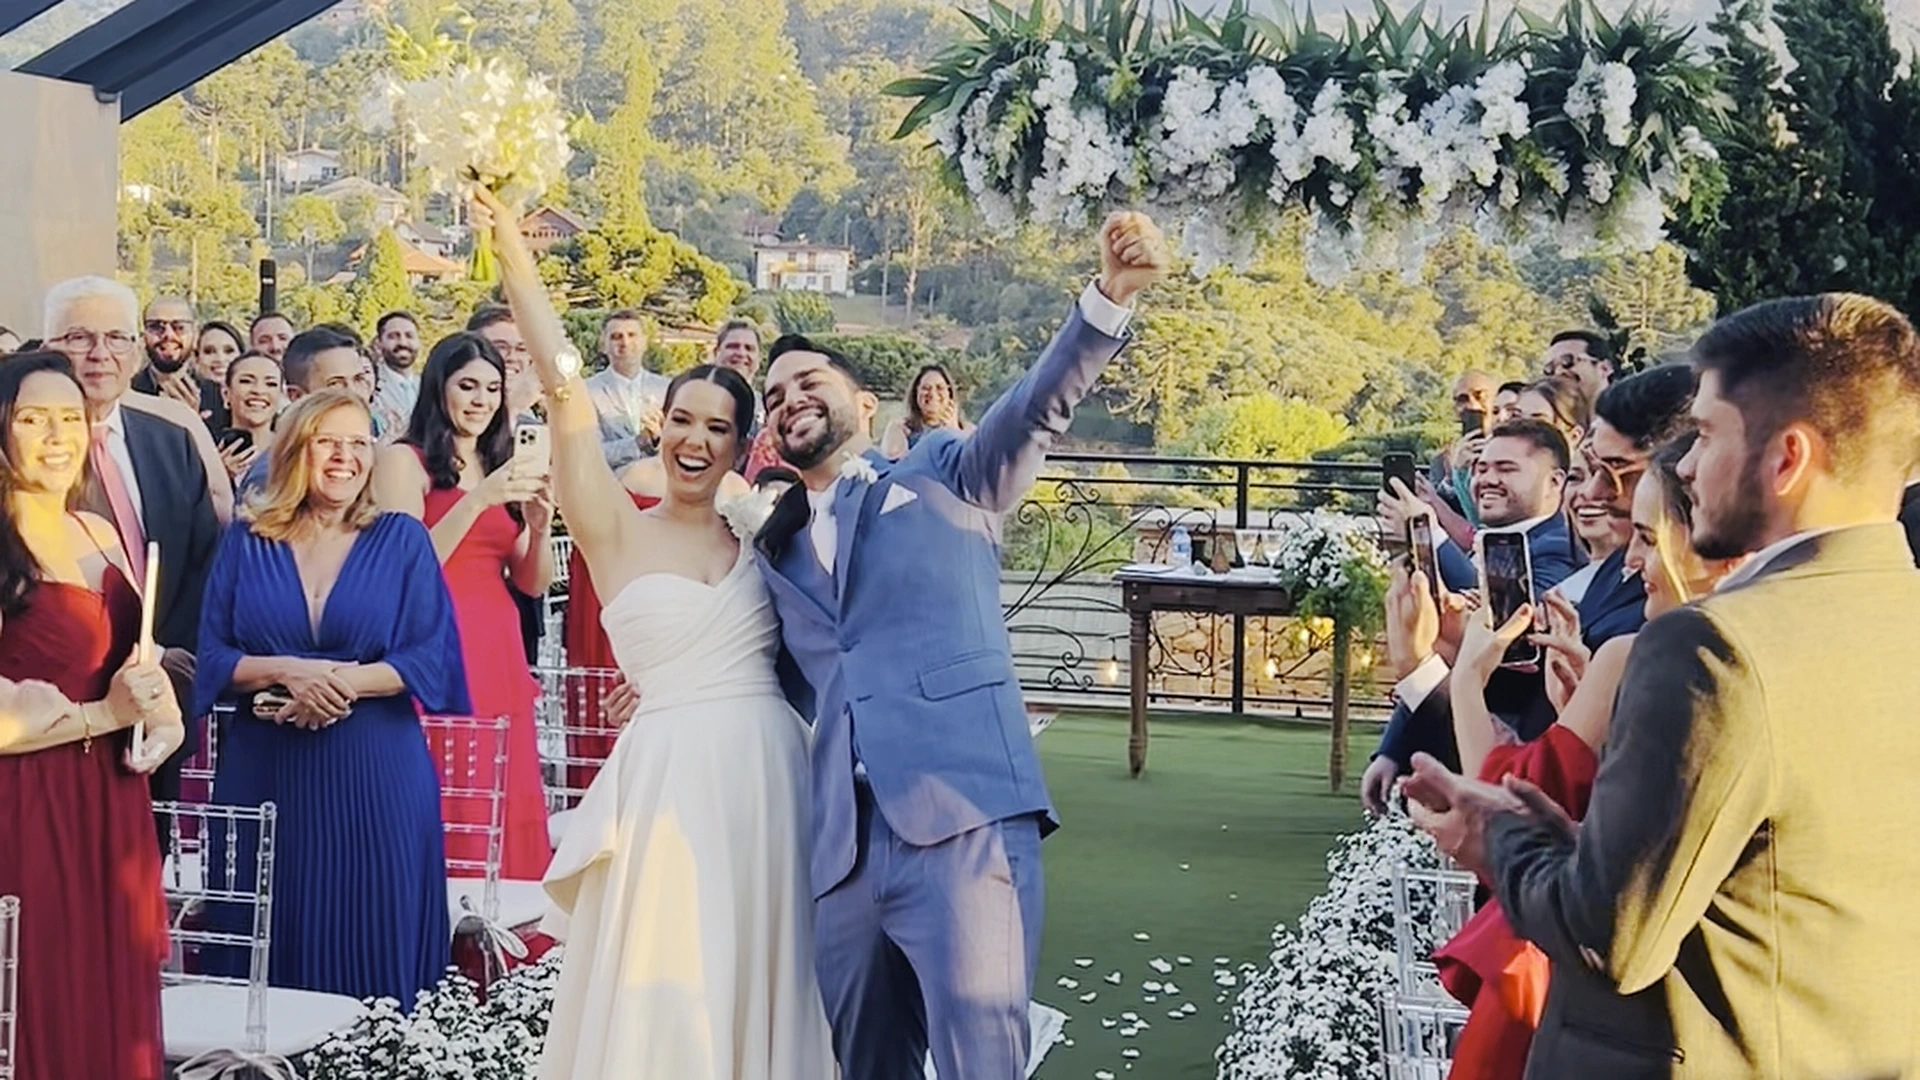
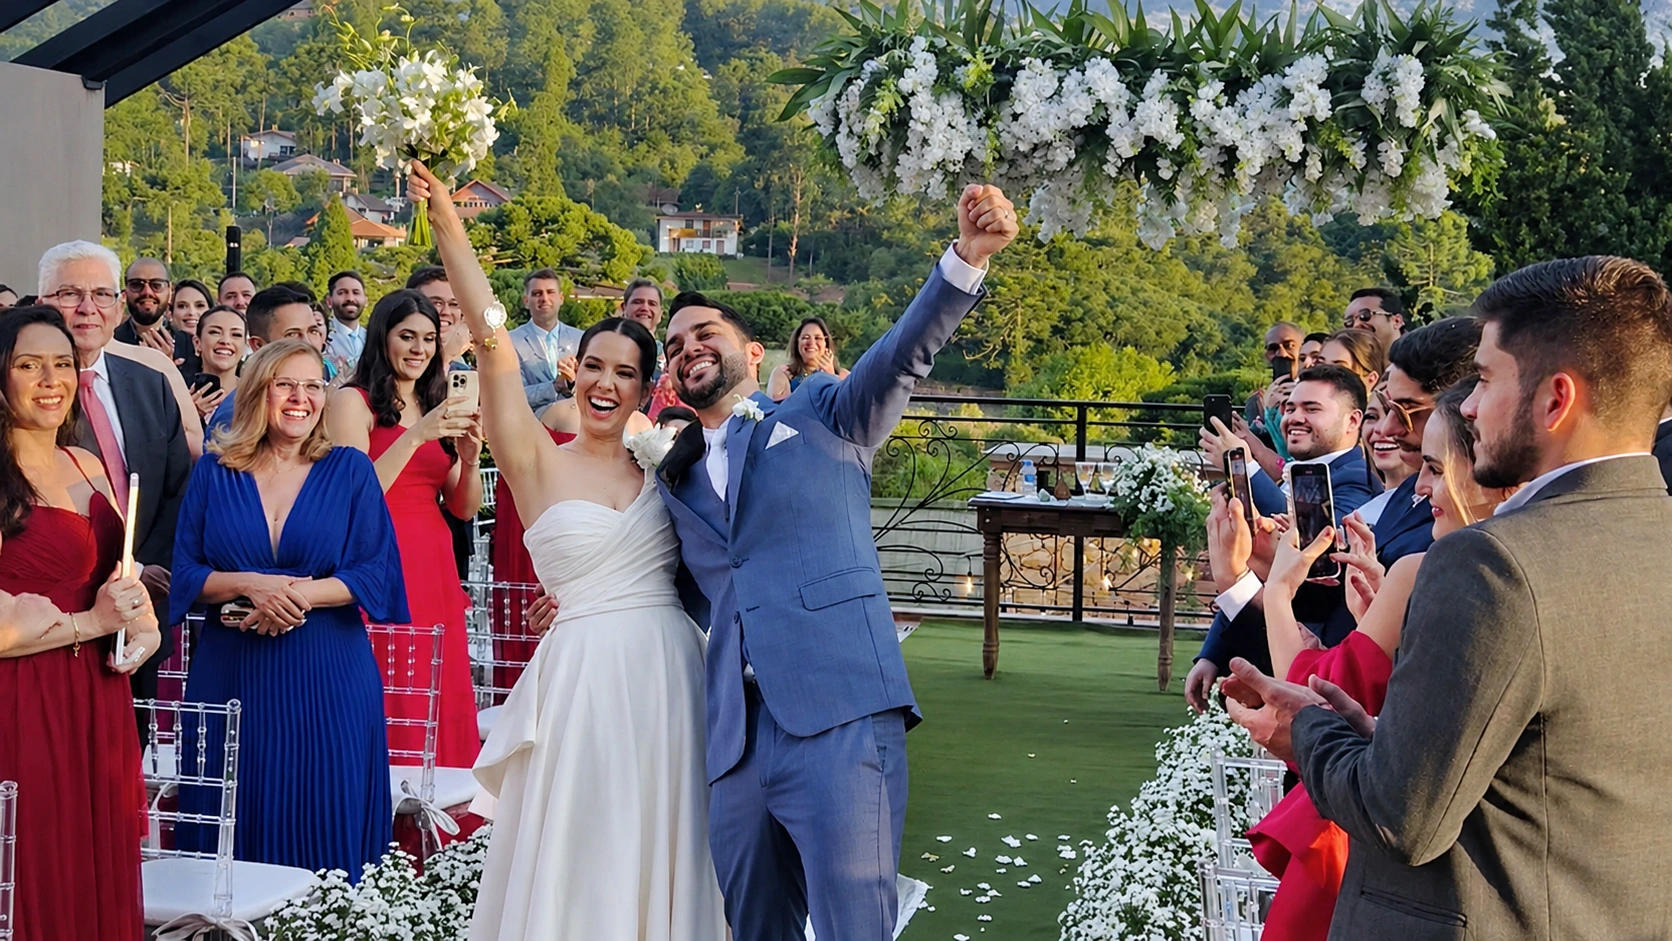
Usa a foto dos noivos enviada para a LP

diff --git a/sites/pousada-villa-monte-verde/index.html b/sites/pousada-villa-monte-verde/index.html
@@ -1766,7 +1766,7 @@ footer span {
           </a>
         </div>
       </section>
-<section class="moments-section"><div class="moments-heading" data-reveal="up"><h2>Cada momento merece ser lembrado.</h2></div><div class="moments-grid two-wedding-videos"><figure class="moment moment-tall" data-reveal="up"><img alt="" decoding="async" data-nimg="fill" style="position:absolute;height:100%;width:100%;left:0;top:0;right:0;bottom:0;color:transparent" src="./assets/foto-1dfc2f531d495d70b7cf.jpg"/><video class="wedding-video" controls muted playsinline preload="metadata" aria-label="Vídeo de casamento na Pousada Villa Monte Verde"><source src="./videos/top-video.mp4" type="video/mp4"></video><figcaption>A emoção do grande dia</figcaption></figure><figure class="moment moment-tall moment-celebration" data-reveal="up"><img loading="lazy" alt="Noivos celebrando com convidados após a cerimônia" decoding="async" data-nimg="fill" style="position:absolute;height:100%;width:100%;left:0;top:0;right:0;bottom:0;color:transparent" src="./assets/foto-9d1f93ee20c90157520c.webp"/><video class="wedding-video" controls muted playsinline preload="metadata" poster="./assets/foto-9d1f93ee20c90157520c.webp" aria-label="Vídeo da celebração de casamento"><source src="./videos/06116.mp4" type="video/mp4"></video></figure><figure class="moment" data-reveal="up"><img loading="lazy" alt="Cerimônia de casamento cercada por convidados" decoding="async" data-nimg="fill" style="position:absolute;height:100%;width:100%;left:0;top:0;right:0;bottom:0;color:transparent" src="./assets/foto-8557b7089f9576f1f271.webp"/><figcaption>Uma celebração entre as montanhas</figcaption></figure><figure class="moment" data-reveal="up"><img loading="lazy" alt="Recepção de casamento com convidados sob luzes douradas" decoding="async" data-nimg="fill" style="position:absolute;height:100%;width:100%;left:0;top:0;right:0;bottom:0;color:transparent" src="./assets/festa-luzes-douradas.png"/><figcaption>A alegria de celebrar juntos</figcaption></figure></div><div class="section-action" data-reveal="up"><button class="cta-button cta-button--wood" type="button" data-chat-trigger="true" data-chat-source="momentos">Falar sobre meu casamento<svg xmlns="http://www.w3.org/2000/svg" width="17" height="17" viewBox="0 0 24 24" fill="none" stroke="currentColor" stroke-width="2" stroke-linecap="round" stroke-linejoin="round" class="lucide lucide-arrow-up-right" aria-hidden="true"><path d="M7 7h10v10"></path><path d="M7 17 17 7"></path></svg></button></div></section><section class="proof-section"><div class="proof-meta" data-reveal="up"><p>CASAMENTOS NA VILLA</p><span>Até <strong>100 pessoas</strong> na celebração</span><span>Hospedagem para até <strong>34 hóspedes</strong></span></div><blockquote data-reveal="up">“Alguns dias merecem ser vividos com calma, cercados de amor e das pessoas que tornam a nossa história especial.”<cite>— Pousada Villa Monte Verde</cite></blockquote></section><section class="location-section" id="localizacao"><div class="location-copy"><h2 data-reveal="up">Um momento de vocês. Uma alegria de todos.</h2><p data-reveal="up">A Pousada Villa Monte Verde fica a apenas 200 metros do centro de Monte Verde, perto de restaurantes, lojas e passeios para aproveitar antes ou depois da celebração.</p><div class="location-facts" data-reveal="up"><span><svg xmlns="http://www.w3.org/2000/svg" width="20" height="20" viewBox="0 0 24 24" fill="none" stroke="currentColor" stroke-width="2" stroke-linecap="round" stroke-linejoin="round" class="lucide lucide-map-pin" aria-hidden="true"><path d="M20 10c0 4.993-5.539 10.193-7.399 11.799a1 1 0 0 1-1.202 0C9.539 20.193 4 14.993 4 10a8 8 0 0 1 16 0"></path><circle cx="12" cy="10" r="3"></circle></svg>200 metros do centro</span><span><svg xmlns="http://www.w3.org/2000/svg" width="20" height="20" viewBox="0 0 24 24" fill="none" stroke="currentColor" stroke-width="2" stroke-linecap="round" stroke-linejoin="round" class="lucide lucide-mountain" aria-hidden="true"><path d="m8 3 4 8 5-5 5 15H2L8 3z"></path></svg>Serra da Mantiqueira · Minas Gerais</span></div></div><div class="location-photo" data-reveal="right"><img loading="lazy" alt="Recém-casados comemoram com convidados na saída da cerimônia" decoding="async" data-nimg="fill" style="position:absolute;height:100%;width:100%;left:0;top:0;right:0;bottom:0;color:transparent;object-position:35% center" src="./assets/saida-casamento-video-fullhd.webp"/></div></section><section class="final-section"><div><h2 data-reveal="up">Mal podemos esperar<br/>para fazer parte dessa linda história.</h2></div><div data-reveal="up"><a class="cta-button cta-button--whatsapp" href="https://wa.me/5535997382399?text=Ol%C3%A1%21%20Gostaria%20de%20saber%20mais%20sobre%20casamentos%20na%20Pousada%20Villa%20Monte%20Verde." target="_blank" rel="noopener noreferrer" data-whatsapp-trigger="true"><svg xmlns="http://www.w3.org/2000/svg" width="18" height="18" viewBox="0 0 24 24" fill="none" stroke="currentColor" stroke-width="2" stroke-linecap="round" stroke-linejoin="round" class="lucide lucide-message-circle" aria-hidden="true"><path d="M2.992 16.342a2 2 0 0 1 .094 1.167l-1.065 3.29a1 1 0 0 0 1.236 1.168l3.413-.998a2 2 0 0 1 1.099.092 10 10 0 1 0-4.777-4.719"></path></svg>Conversar pelo WhatsApp</a></div></section><footer><img alt="Pousada Villa Monte Verde" width="230" height="100" decoding="async" data-nimg="1" style="color:transparent" src="./assets/foto-d4f7a81191545eac7036.png"/><p>Monte Verde · Minas Gerais</p><span>Casamentos na serra de Monte Verde.</span></footer></main><!--$--><!--/$--><button class="mobile-chat-launcher" type="button" data-chat-trigger="true" aria-label="Abrir atendimento da Pousada Villa Monte Verde"><img src="./assets/foto-6a47964abdbbc6031d16.png" alt=""/><span aria-hidden="true">1</span></button><script type="text/javascript">
+<section class="moments-section"><div class="moments-heading" data-reveal="up"><h2>Cada momento merece ser lembrado.</h2></div><div class="moments-grid two-wedding-videos"><figure class="moment moment-tall" data-reveal="up"><img alt="" decoding="async" data-nimg="fill" style="position:absolute;height:100%;width:100%;left:0;top:0;right:0;bottom:0;color:transparent" src="./assets/foto-1dfc2f531d495d70b7cf.jpg"/><video class="wedding-video" controls muted playsinline preload="metadata" aria-label="Vídeo de casamento na Pousada Villa Monte Verde"><source src="./videos/top-video.mp4" type="video/mp4"></video><figcaption>A emoção do grande dia</figcaption></figure><figure class="moment moment-tall moment-celebration" data-reveal="up"><img loading="lazy" alt="Noivos celebrando com convidados após a cerimônia" decoding="async" data-nimg="fill" style="position:absolute;height:100%;width:100%;left:0;top:0;right:0;bottom:0;color:transparent" src="./assets/foto-9d1f93ee20c90157520c.webp"/><video class="wedding-video" controls muted playsinline preload="metadata" poster="./assets/foto-9d1f93ee20c90157520c.webp" aria-label="Vídeo da celebração de casamento"><source src="./videos/06116.mp4" type="video/mp4"></video></figure><figure class="moment" data-reveal="up"><img loading="lazy" alt="Cerimônia de casamento cercada por convidados" decoding="async" data-nimg="fill" style="position:absolute;height:100%;width:100%;left:0;top:0;right:0;bottom:0;color:transparent" src="./assets/foto-8557b7089f9576f1f271.webp"/><figcaption>Uma celebração entre as montanhas</figcaption></figure><figure class="moment" data-reveal="up"><img loading="lazy" alt="Recepção de casamento com convidados sob luzes douradas" decoding="async" data-nimg="fill" style="position:absolute;height:100%;width:100%;left:0;top:0;right:0;bottom:0;color:transparent" src="./assets/festa-luzes-douradas.png"/><figcaption>A alegria de celebrar juntos</figcaption></figure></div><div class="section-action" data-reveal="up"><button class="cta-button cta-button--wood" type="button" data-chat-trigger="true" data-chat-source="momentos">Falar sobre meu casamento<svg xmlns="http://www.w3.org/2000/svg" width="17" height="17" viewBox="0 0 24 24" fill="none" stroke="currentColor" stroke-width="2" stroke-linecap="round" stroke-linejoin="round" class="lucide lucide-arrow-up-right" aria-hidden="true"><path d="M7 7h10v10"></path><path d="M7 17 17 7"></path></svg></button></div></section><section class="proof-section"><div class="proof-meta" data-reveal="up"><p>CASAMENTOS NA VILLA</p><span>Até <strong>100 pessoas</strong> na celebração</span><span>Hospedagem para até <strong>34 hóspedes</strong></span></div><blockquote data-reveal="up">“Alguns dias merecem ser vividos com calma, cercados de amor e das pessoas que tornam a nossa história especial.”<cite>— Pousada Villa Monte Verde</cite></blockquote></section><section class="location-section" id="localizacao"><div class="location-copy"><h2 data-reveal="up">Um momento de vocês. Uma alegria de todos.</h2><p data-reveal="up">A Pousada Villa Monte Verde fica a apenas 200 metros do centro de Monte Verde, perto de restaurantes, lojas e passeios para aproveitar antes ou depois da celebração.</p><div class="location-facts" data-reveal="up"><span><svg xmlns="http://www.w3.org/2000/svg" width="20" height="20" viewBox="0 0 24 24" fill="none" stroke="currentColor" stroke-width="2" stroke-linecap="round" stroke-linejoin="round" class="lucide lucide-map-pin" aria-hidden="true"><path d="M20 10c0 4.993-5.539 10.193-7.399 11.799a1 1 0 0 1-1.202 0C9.539 20.193 4 14.993 4 10a8 8 0 0 1 16 0"></path><circle cx="12" cy="10" r="3"></circle></svg>200 metros do centro</span><span><svg xmlns="http://www.w3.org/2000/svg" width="20" height="20" viewBox="0 0 24 24" fill="none" stroke="currentColor" stroke-width="2" stroke-linecap="round" stroke-linejoin="round" class="lucide lucide-mountain" aria-hidden="true"><path d="m8 3 4 8 5-5 5 15H2L8 3z"></path></svg>Serra da Mantiqueira · Minas Gerais</span></div></div><div class="location-photo" data-reveal="right"><img loading="lazy" alt="Recém-casados comemoram com convidados na saída da cerimônia" decoding="async" data-nimg="fill" style="position:absolute;height:100%;width:100%;left:0;top:0;right:0;bottom:0;color:transparent;object-position:35% center" src="./assets/saida-casamento-video-fullhd.webp?v=3"/></div></section><section class="final-section"><div><h2 data-reveal="up">Mal podemos esperar<br/>para fazer parte dessa linda história.</h2></div><div data-reveal="up"><a class="cta-button cta-button--whatsapp" href="https://wa.me/5535997382399?text=Ol%C3%A1%21%20Gostaria%20de%20saber%20mais%20sobre%20casamentos%20na%20Pousada%20Villa%20Monte%20Verde." target="_blank" rel="noopener noreferrer" data-whatsapp-trigger="true"><svg xmlns="http://www.w3.org/2000/svg" width="18" height="18" viewBox="0 0 24 24" fill="none" stroke="currentColor" stroke-width="2" stroke-linecap="round" stroke-linejoin="round" class="lucide lucide-message-circle" aria-hidden="true"><path d="M2.992 16.342a2 2 0 0 1 .094 1.167l-1.065 3.29a1 1 0 0 0 1.236 1.168l3.413-.998a2 2 0 0 1 1.099.092 10 10 0 1 0-4.777-4.719"></path></svg>Conversar pelo WhatsApp</a></div></section><footer><img alt="Pousada Villa Monte Verde" width="230" height="100" decoding="async" data-nimg="1" style="color:transparent" src="./assets/foto-d4f7a81191545eac7036.png"/><p>Monte Verde · Minas Gerais</p><span>Casamentos na serra de Monte Verde.</span></footer></main><!--$--><!--/$--><button class="mobile-chat-launcher" type="button" data-chat-trigger="true" aria-label="Abrir atendimento da Pousada Villa Monte Verde"><img src="./assets/foto-6a47964abdbbc6031d16.png" alt=""/><span aria-hidden="true">1</span></button><script type="text/javascript">
 (function(c,l,a,r,i,t,y){
     c[a]=c[a]||function(){(c[a].q=c[a].q||[]).push(arguments)};
     t=l.createElement(r);t.async=1;t.src="https://www.clarity.ms/tag/"+i;
